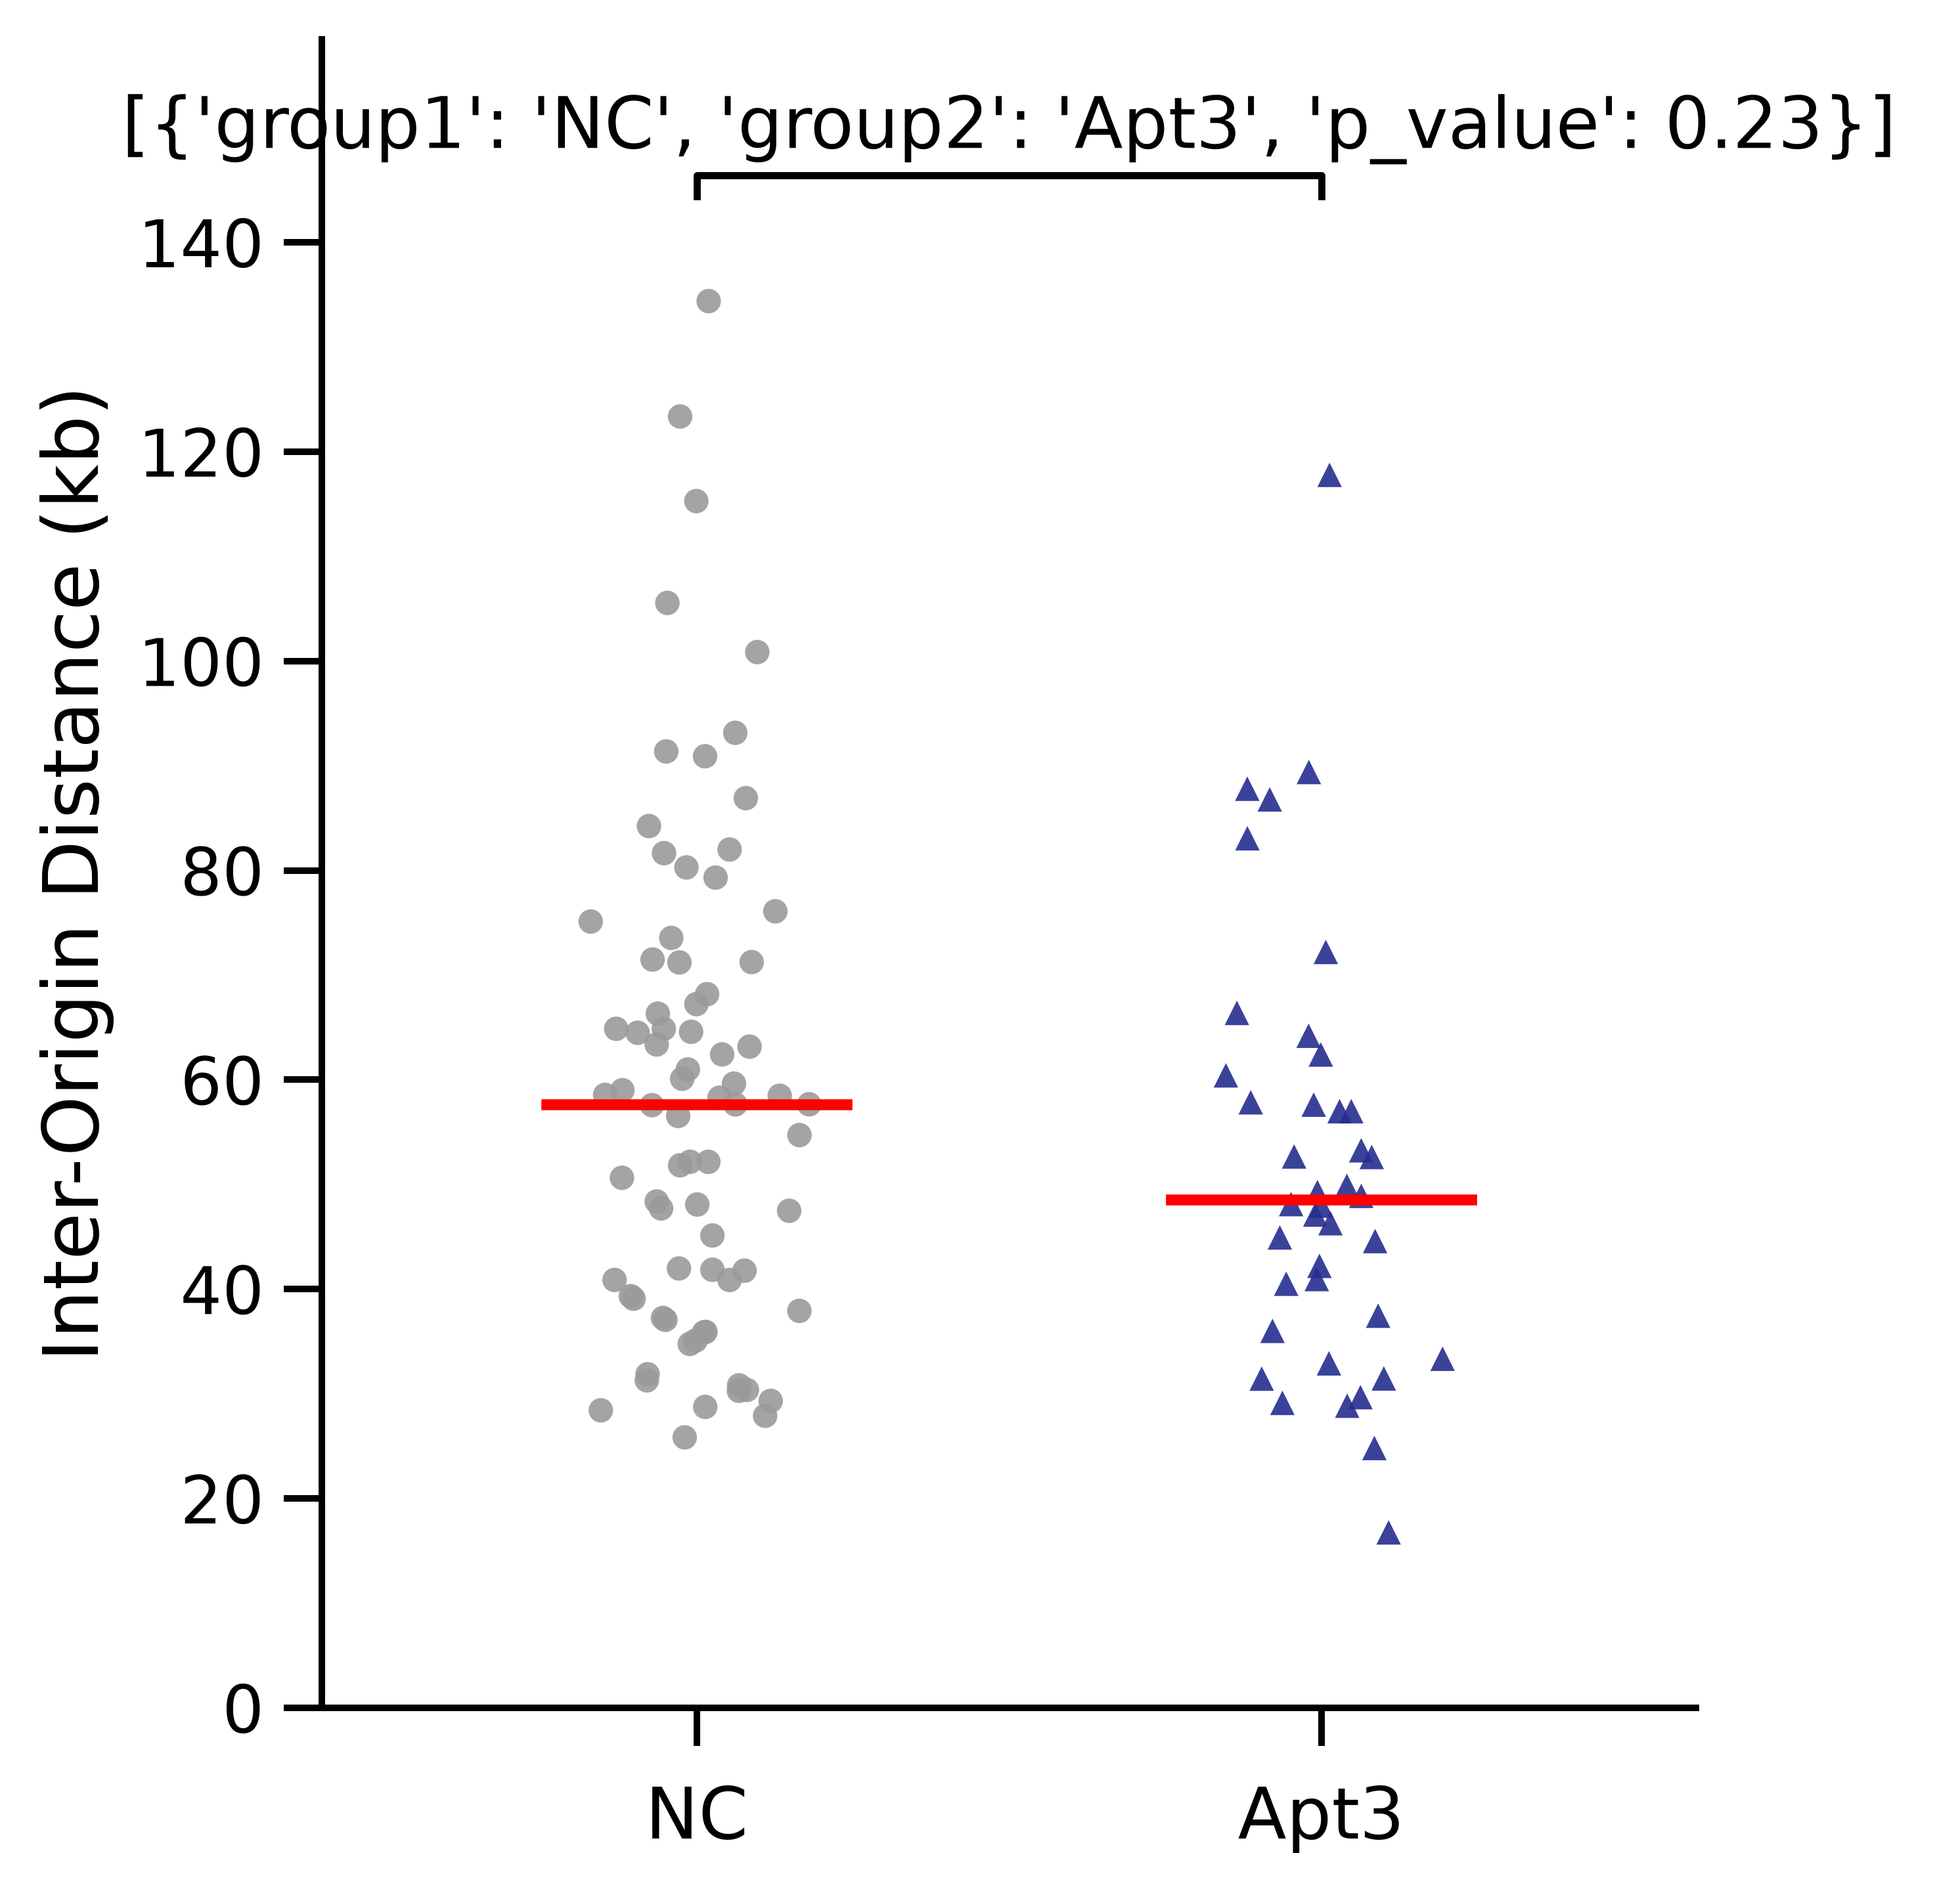
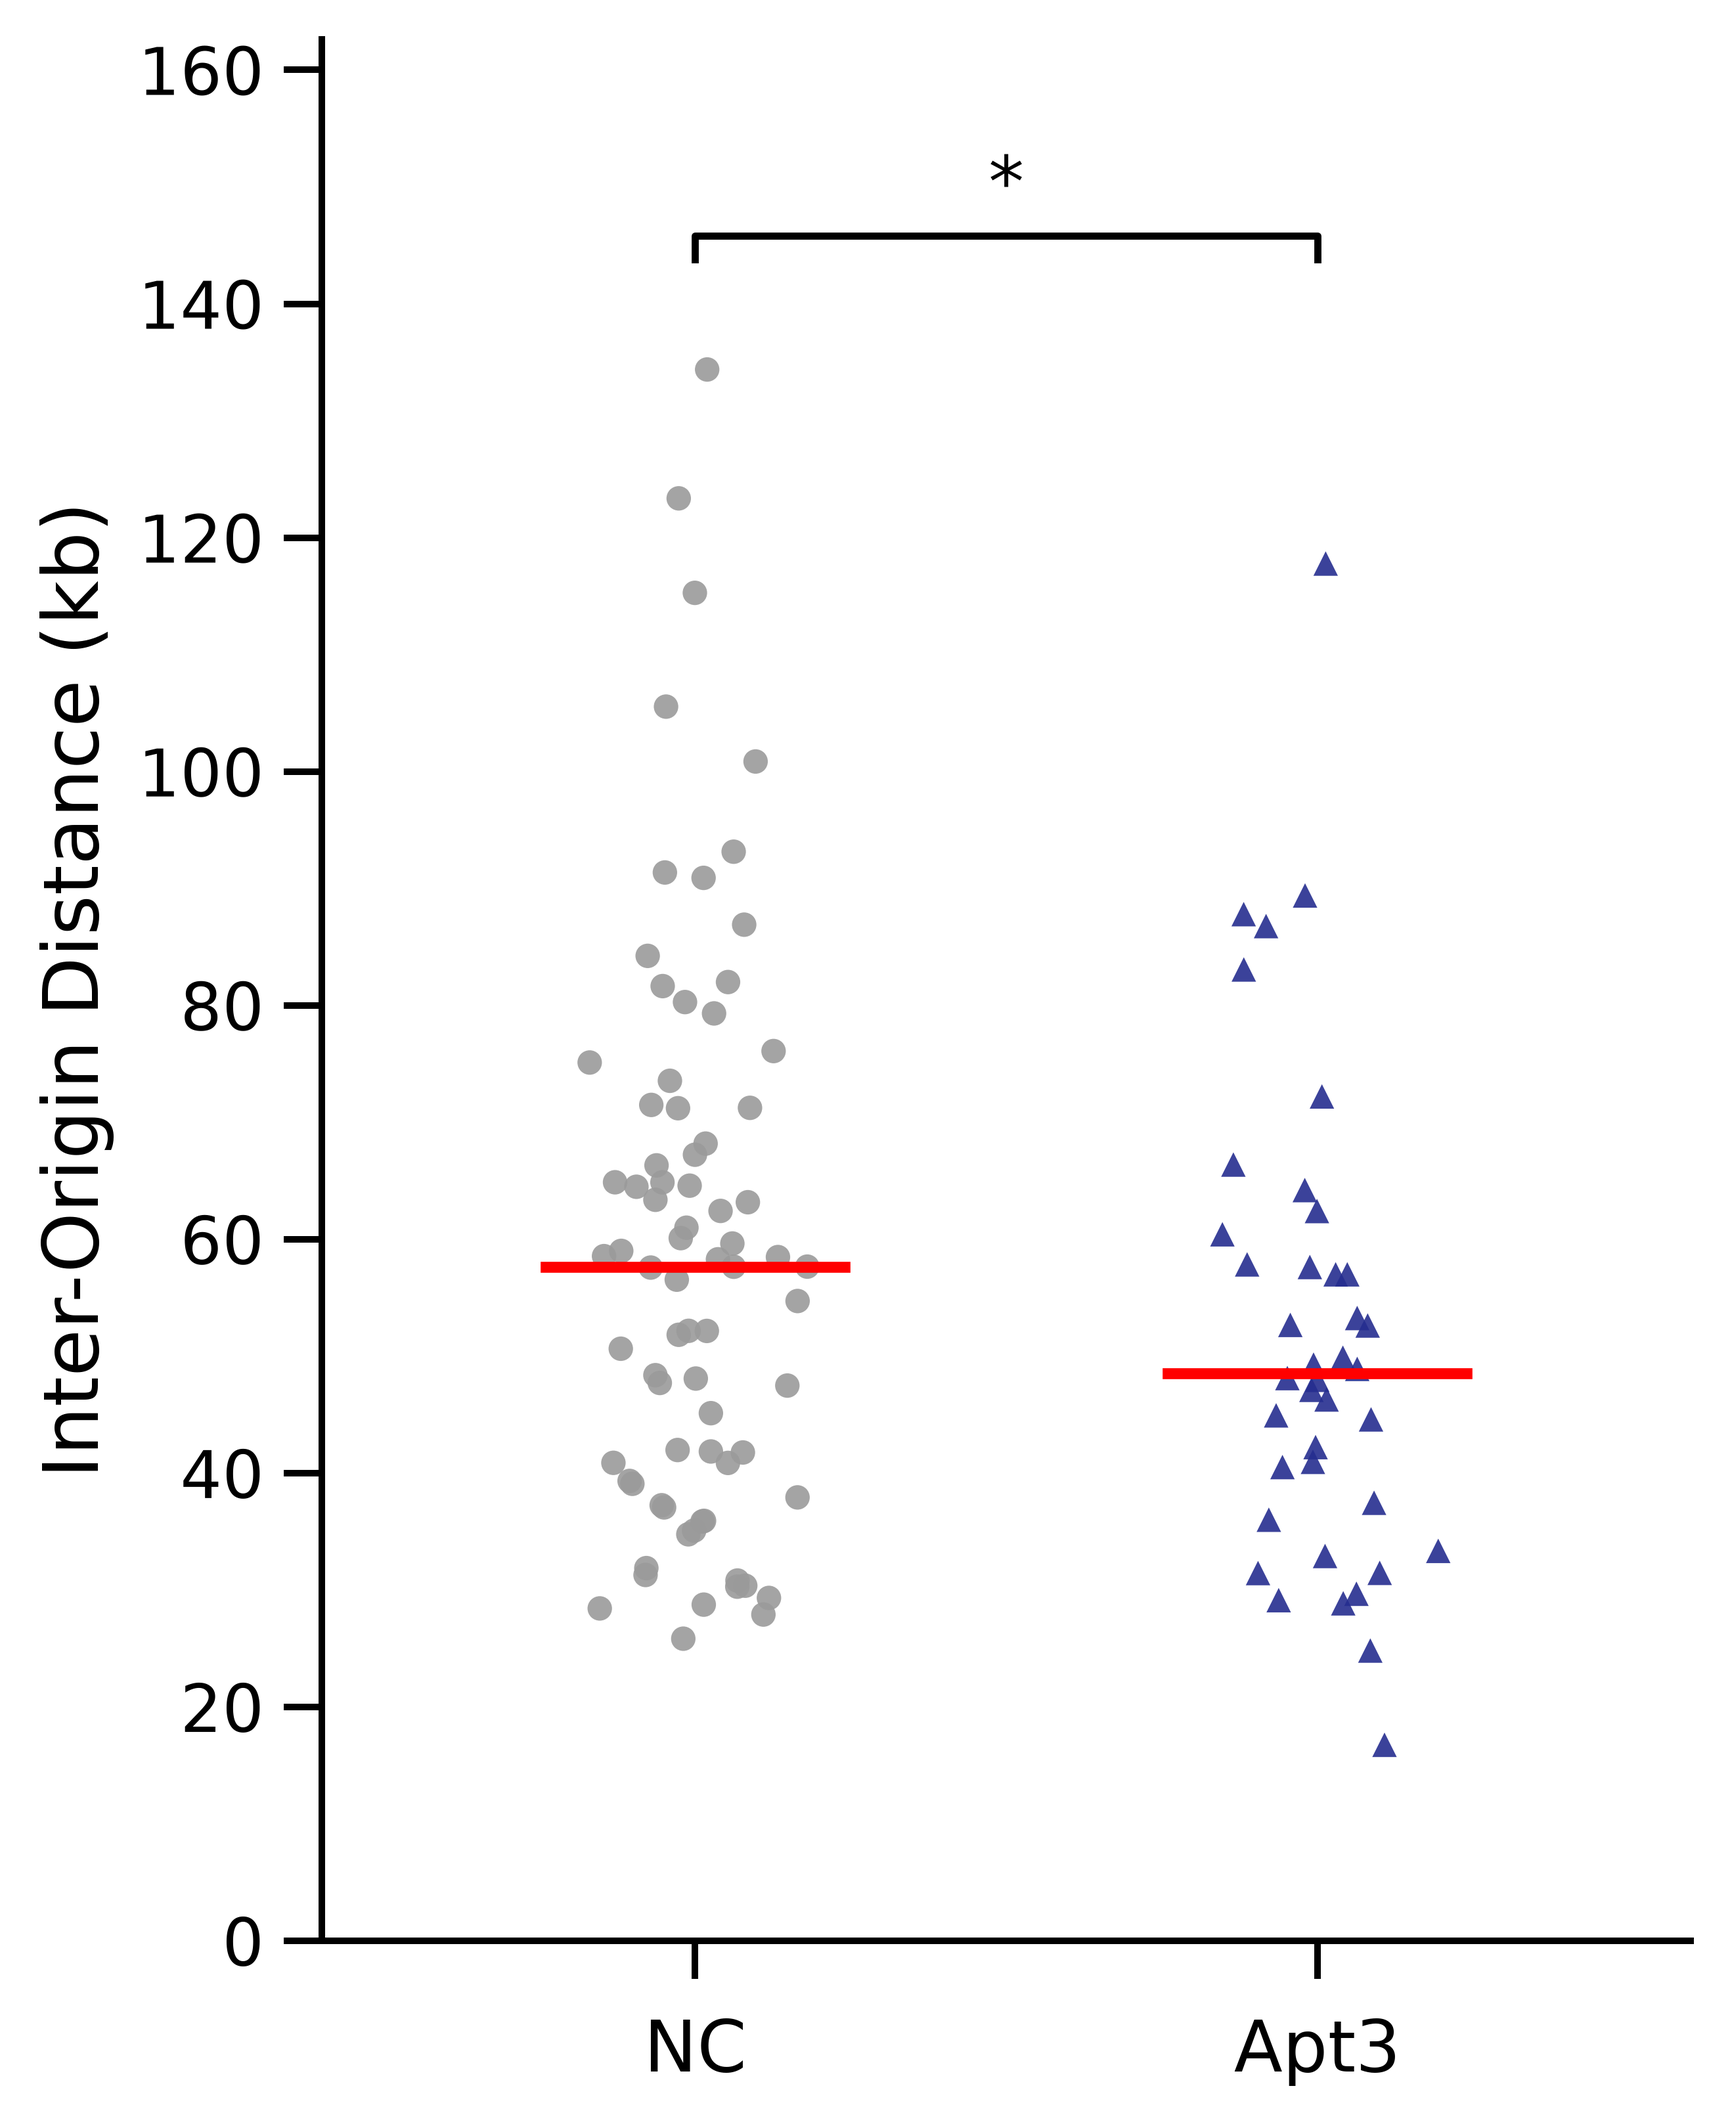
plot change design

diff --git a/plotting.py b/plotting.py
@@ -65,16 +65,42 @@ def boxplot_with_statistics(data,
                             sample_labels,
                             sample_colors,
                             sample_markers,
-                            figsize = (4.5, 5.5),
-                            stats = ["n.s."], # "****", "n.s."
+                            figsize = (5, 6),
+                            stats = None,
                             y_axis = "",
                             save_dir = ".",
                             save_name = "",
                             ext = "png"):
     
+    """
+    Plot individual observations, median lines, and significance brackets.
+
+    stats should be a list of dictionaries, for example:
+
+    stats = [
+        {"group1": "NC", "group2": "Apt3", "p_value": 0.08},
+        {"group1": "NC", "group2": "Apt4", "p_value": 0.00001},
+    ]
+    """
+    
+    if stats is None:
+        stats = []
+
+
     # ---------------------------------------------------------
     # Process dataframe for plotting
     # ---------------------------------------------------------
+    required_columns = {"Sample_name", var}
+    
+    missing_columns = required_columns.difference(data.columns)
+
+    if missing_columns:
+        raise ValueError(
+            "Missing dataframe columns: {}".format(
+                ", ".join(sorted(missing_columns))
+            )
+        )
+        
     # Keep only the columns needed for plotting
     plot_data = data[['Sample_name', var]].copy()
     
@@ -88,19 +114,44 @@ def boxplot_with_statistics(data,
     plot_data = plot_data.dropna(
         subset=["Sample_name", var]
     )
+    
+    # Convert sample names to numeric x-axis positions
+    x_lookup = {
+        sample: i
+        for i, sample in enumerate(sample_order)
+    }
+    
+    # Check that all statistical groups are valid
+    for stat in stats:
+        group1 = stat["group1"]
+        group2 = stat["group2"]
+
+        if group1 not in x_lookup:
+            raise ValueError(
+                "Group '{}' is not present in sample_order.".format(group1)
+            )
+
+        if group2 not in x_lookup:
+            raise ValueError(
+                "Group '{}' is not present in sample_order.".format(group2)
+            )
+    
 
     # ---------------------------------------------------------
     # Create plot
     # ---------------------------------------------------------
     x_positions = np.arange(len(sample_order))
+    
     fig, ax = plt.subplots(figsize=figsize)
+    
     rng = np.random.default_rng(4)
     
     # Iteration over samples to plot individual points and median lines
     for x, sample in zip(x_positions, sample_order):
+        
         values = plot_data.loc[
             plot_data["Sample_name"] == sample,
-            "IOD_kb"
+            var,
         ].to_numpy()
 
         if len(values) == 0:
@@ -140,21 +191,48 @@ def boxplot_with_statistics(data,
     # Add statistical annotation manually
     # Adjust y according to your data
     # ---------------------------------------------------------
-    max_value = plot_data.loc[
-            plot_data["Sample_name"].isin(sample_order),
-            var
-        ].max()
+    selected_values = plot_data.loc[
+        plot_data["Sample_name"].isin(sample_order),
+        var,
+    ]
 
-    annotation_y = max_value + 10
+    if selected_values.empty:
+        raise ValueError("No data found for the selected samples.")
+    
+    data_min = selected_values.min()
+    data_max = selected_values.max()
+    data_range = data_max - data_min
 
-    # Add significance bars for each comparison
-    for stat in stats:
+    if data_range == 0:
+        data_range = max(abs(data_max), 1)
+
+    first_annotation_y = data_max + 0.08 * data_range
+    annotation_step = 0.12 * data_range
+    bar_height = 0.025 * data_range
+    text_offset = 0.015 * data_range
+    
+    
+    for i, stat in enumerate(stats):
+        group1 = stat["group1"]
+        group2 = stat["group2"]
+        p_value = stat["p_value"]
+        
+        
+        # Convert sample names to numeric positions
+        x1 = x_lookup[group1]
+        x2 = x_lookup[group2]
+        
+        label = p_to_stars(p_value)
+        
+        # Put each bracket at a different height
+        annotation_y = first_annotation_y + i * annotation_step
+             
         add_significance_bar(
             ax,
-            x1=stat["group1"],
-            x2=stat["group2"],
+            x1=x1,
+            x2=x2,
             y=annotation_y,
-            text=p_to_stars(stat["p_value"]),
+            text=label,
         )
 
     # ---------------------------------------------------------
@@ -177,10 +255,23 @@ def boxplot_with_statistics(data,
 
     ax.set_xlim(-0.6, len(sample_order) - 0.4)
 
+    if stats:
+        upper_limit = (
+                first_annotation_y
+                + len(stats) * annotation_step
+                + bar_height
+                + text_offset
+           )
+    else:
+        upper_limit = data_max + 0.1 * data_range
+
+    lower_limit = min(0, data_min - 0.05 * data_range)
+
     ax.set_ylim(
-        0,
-        annotation_y + 15
+        lower_limit,
+        upper_limit,
     )
+
 
     ax.tick_params(
         axis="y",
@@ -202,7 +293,10 @@ def boxplot_with_statistics(data,
     ax.spines["right"].set_visible(False)
 
     ax.spines["left"].set_linewidth(1.2)
-    ax.spines["bottom"].set_linewidth(1.2)  
+    ax.spines["bottom"].set_linewidth(1.2)
+    
+    # Apply layout before saving
+    fig.tight_layout()  
 
     # -------------------------------------------------------
     # Save figure
@@ -217,5 +311,6 @@ def boxplot_with_statistics(data,
 
     print(f"Plot saved to: {output_file}")
     
-    plt.tight_layout()
     plt.show()
+    
+    return fig, ax
